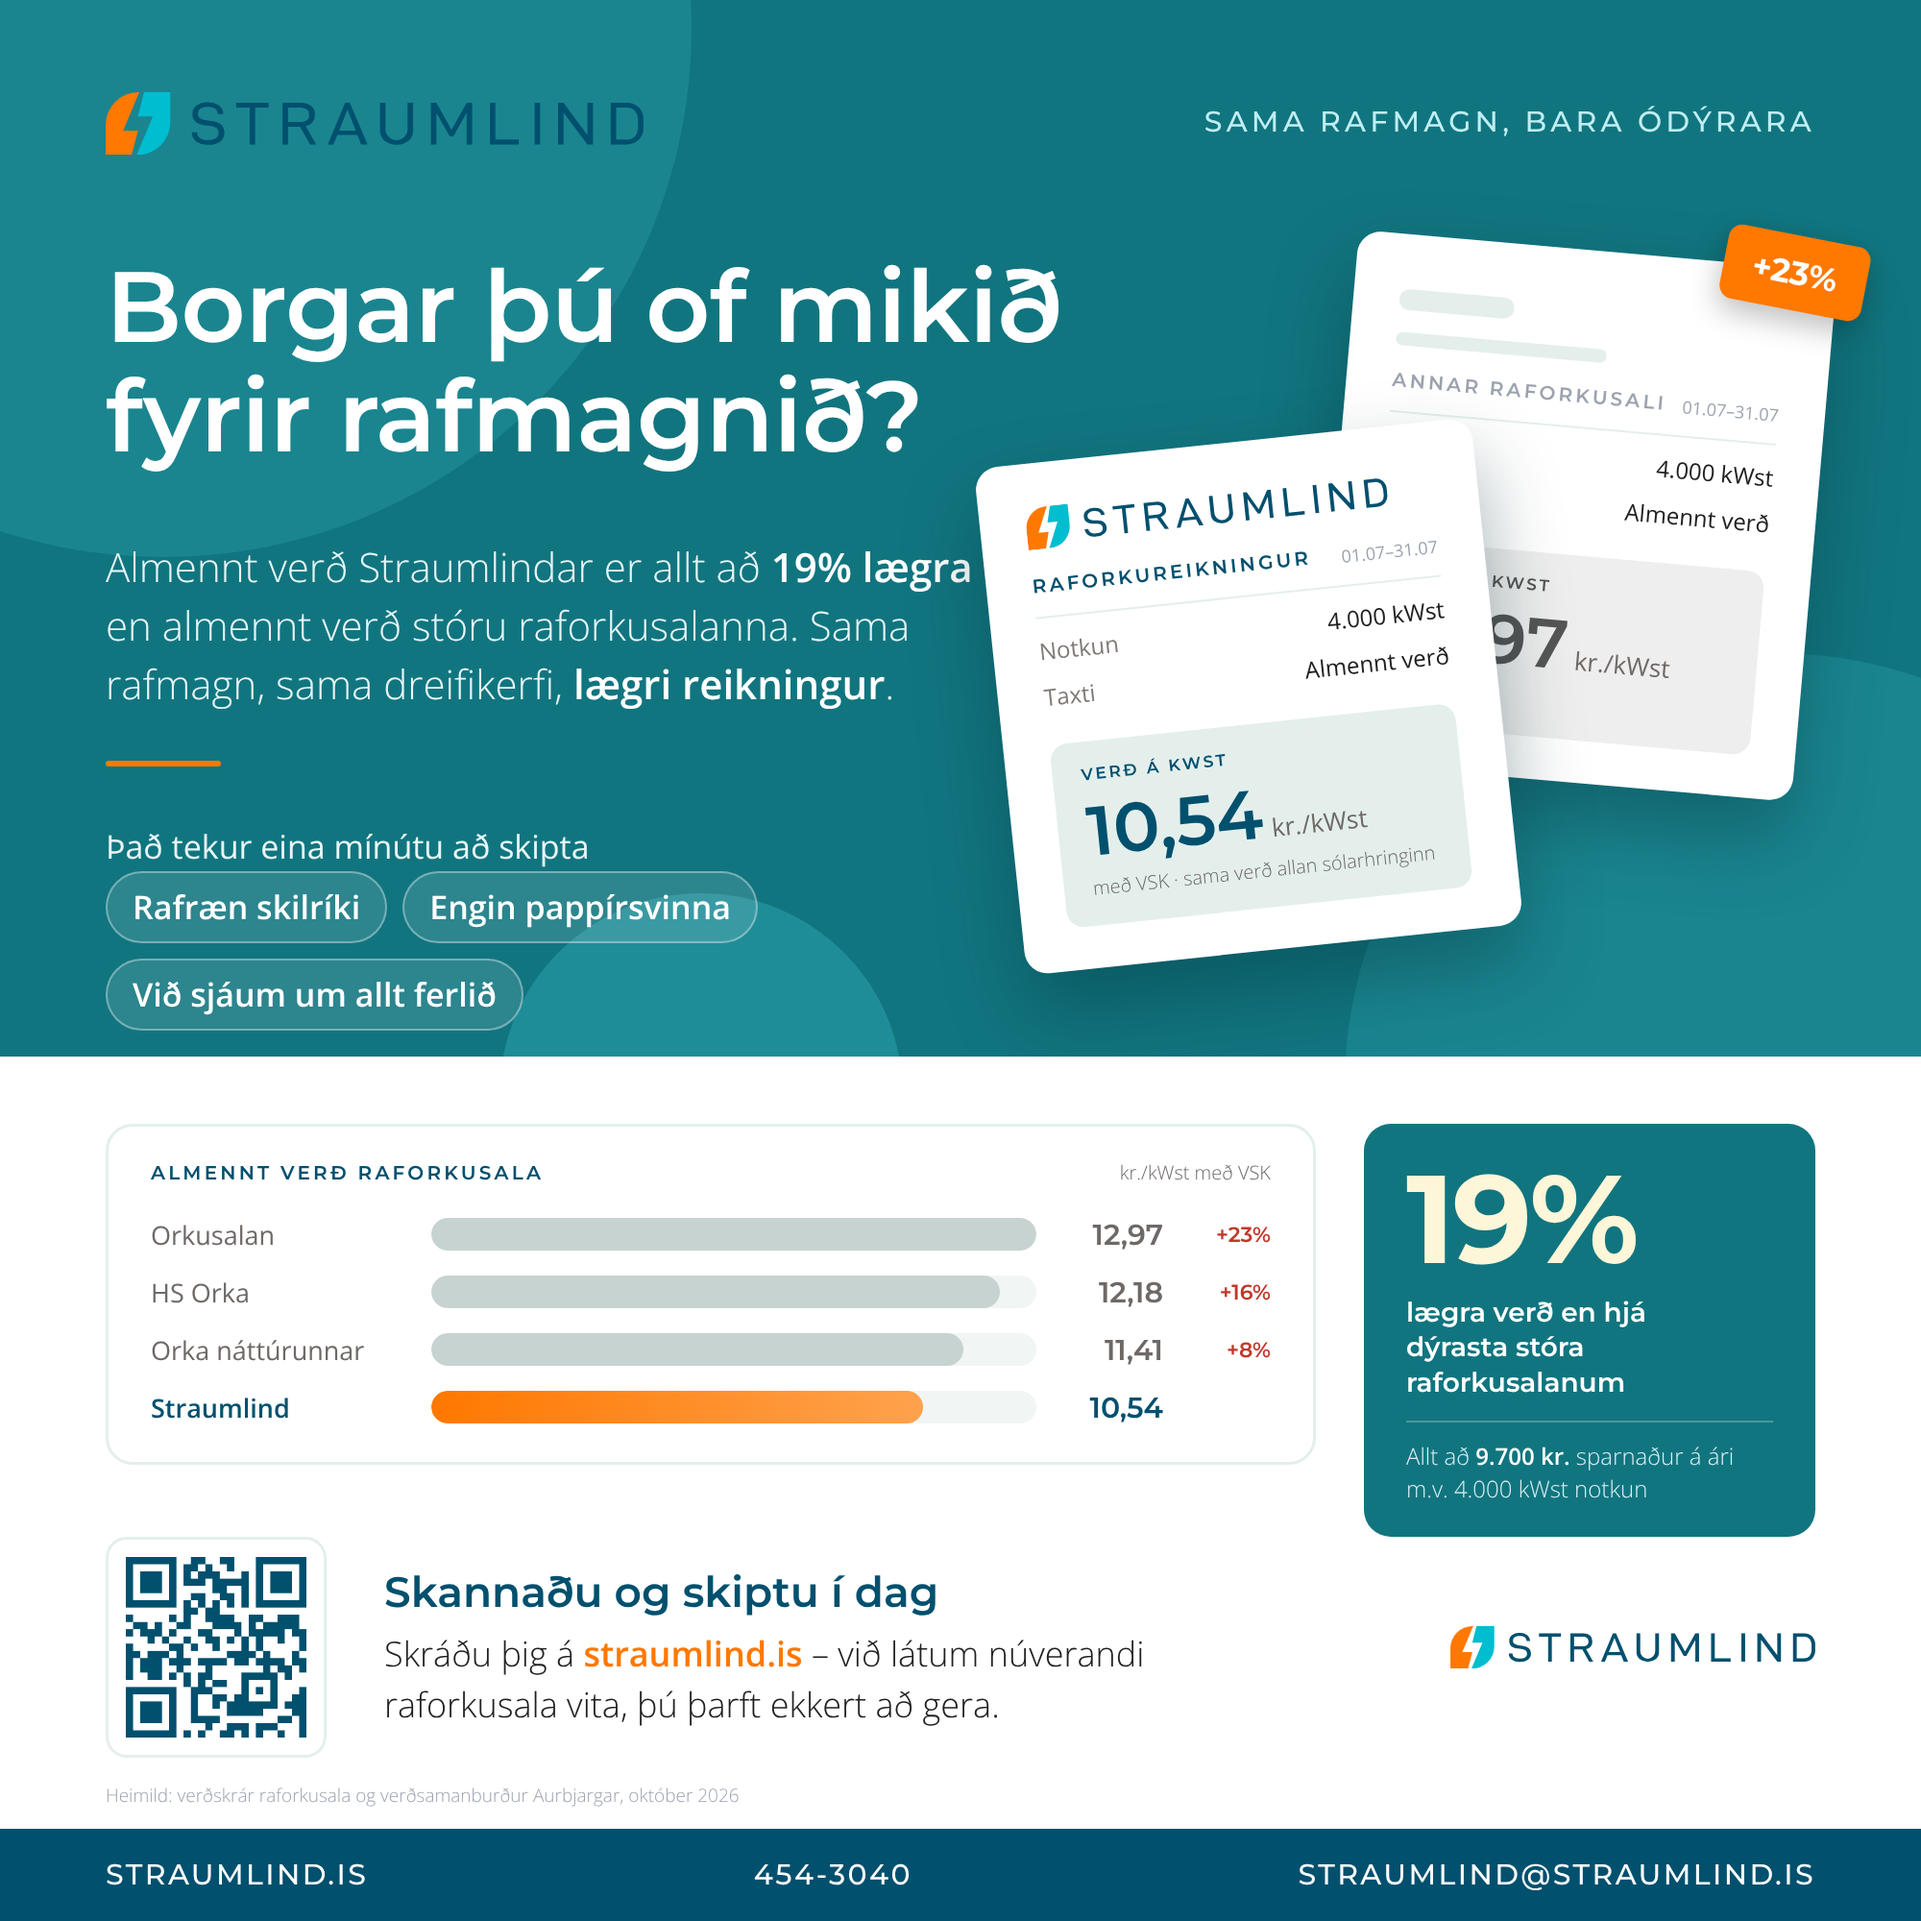
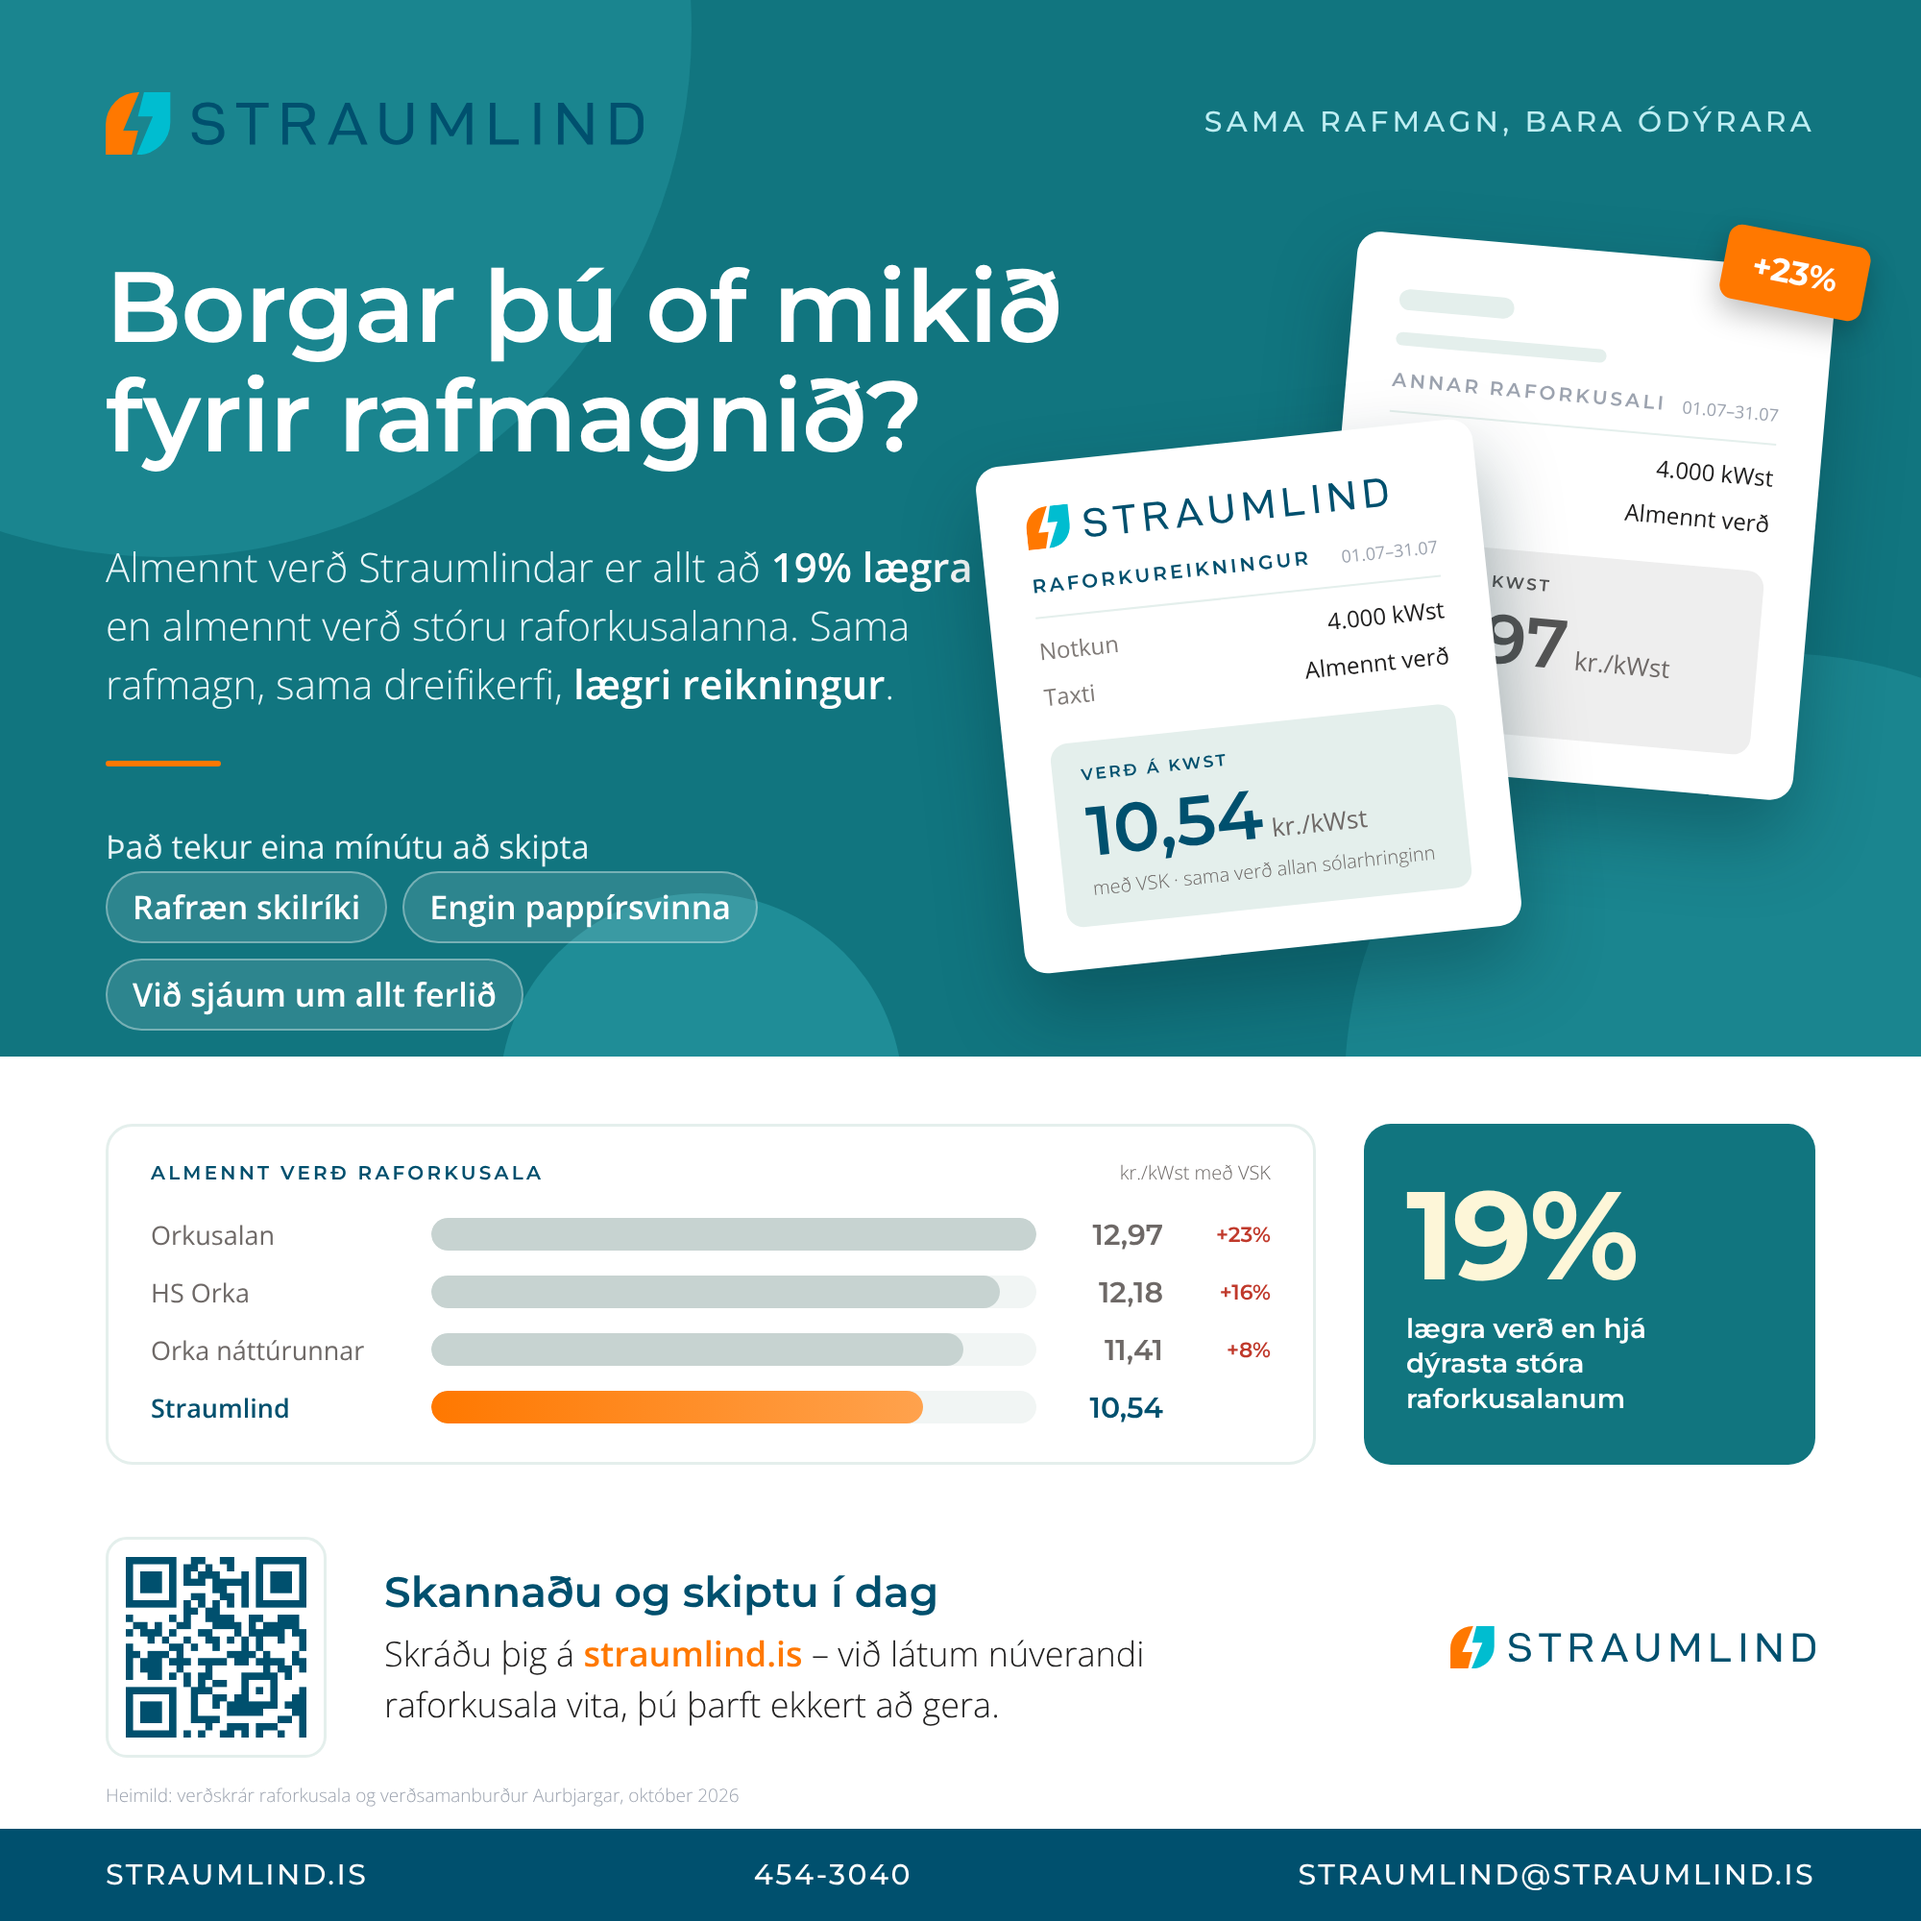
Fjarlægja sparnaðarlínu úr Straumlind auglýsingu
Claude-Session: https://claude.ai/code/session_01HsF8n3MQgC8zgAGCaxdkn6

Changed region(s): [[0.713, 0.589, 0.961, 0.806]]

diff --git a/auglysingar/straumlind-auglysing.html b/auglysingar/straumlind-auglysing.html
@@ -67,7 +67,7 @@ html,body{width:2000px;height:2000px;overflow:hidden;background:#fff;font-family
 .bar .v{font:600 30px Montserrat;color:#6e6967;text-align:right}
 .bar .pc{font:600 22px Montserrat;color:#c0392b;text-align:right}
 .bar.sl .n,.bar.sl .v{color:var(--navy);font-weight:600}
-.stat{width:470px;background:var(--teal);border-radius:28px;padding:34px 44px;align-self:flex-start;color:#fff;display:flex;flex-direction:column;justify-content:center}
+.stat{width:470px;background:var(--teal);border-radius:28px;padding:34px 44px;align-self:stretch;color:#fff;display:flex;flex-direction:column;justify-content:center}
 .stat .big{font:700 130px/1 Montserrat;color:var(--cream);letter-spacing:-.02em}
 .stat .sl1{font:600 28px/1.3 Montserrat;margin-top:14px}
 .stat .sl2{font:300 24px/1.4 OpenSans;color:#d8eff2;margin-top:22px;padding-top:18px;border-top:2px solid rgba(255,255,255,.25)}
@@ -121,7 +121,6 @@ html,body{width:2000px;height:2000px;overflow:hidden;background:#fff;font-family
     <div class="stat">
       <div class="big">19%</div>
       <div class="sl1">lægra verð en hjá<br>dýrasta stóra raforkusalanum</div>
-      <div class="sl2">Allt að <b>9.700 kr.</b> sparnaður á ári<br>m.v. 4.000 kWst notkun</div>
     </div>
   </div>
   <div class="cta">
